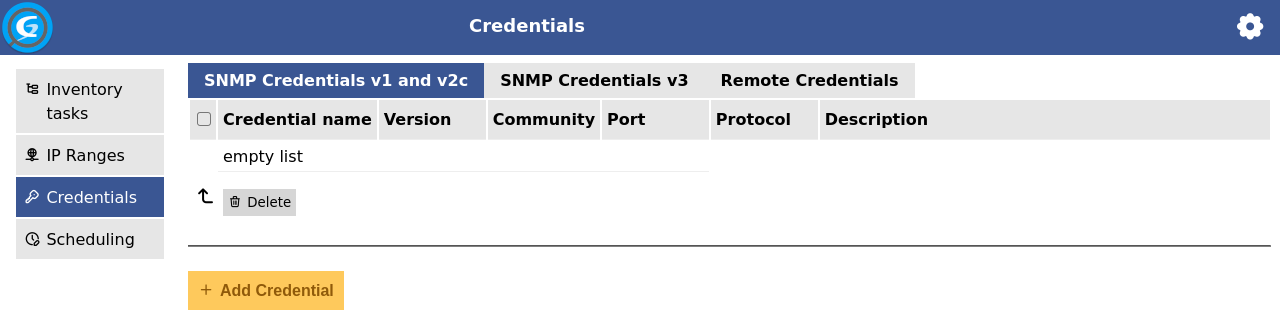
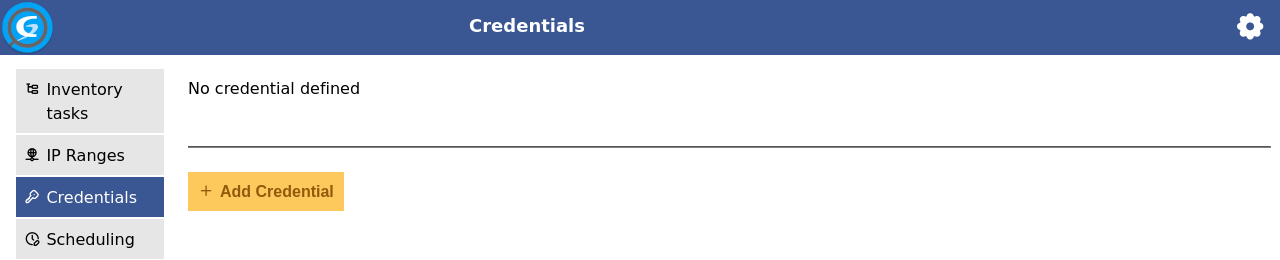
Update ToolBox documentation Add IP ranges & Scheduling configuration chapters Updated screenshots

diff --git a/source/plugins/toolbox-plugin.rst b/source/plugins/toolbox-plugin.rst
@@ -39,6 +39,7 @@ Here are the main features **ToolBox** provides:
 * manage mibsupport rules to tune the results for SNMP network devices
 
 .. note::
+
    **ToolBox** is not intended to replace a plugin like `GlpiInventory <https://github.com/glpi-project/glpi-inventory-plugin/>`_
    or `FusionInventory for GLPI <https://github.com/fusioninventory/fusioninventory-for-glpi>`_ plugins
    but can be helpful where none of these plugin can or should be used for any reason.
@@ -51,6 +52,7 @@ Run tasks results can be stored in the agent environment and you can browse them
 You can indeed select as job target any glpi-agent configured target (local or server) or the local glpi-agent installation folder.
 
 .. note::
+
    Since GLPI Agent 1.5, **ToolBox** also permits to manage :doc:`RemoteInventory task <../tasks/remote-inventory>` by defining and updating remotes.
    It can also be used to expire remotes and require a remoteinventory task run to handle any expired remotes right now.
    The interface is really basic: it doens't show the status of a remote and you'll still have to audit your agent log
@@ -74,6 +76,7 @@ By default, **this plugin is disabled**. So the first required step is to enable
 This way, the agent will start to accept toolbox requests on its current port and on ``/toolbox`` as base url, by default: `http://127.0.0.1:62354/toolbox`
 
 .. warning::
+
    By default, anybody can access this feature after it has been enabled. You should first set ``forbid_not_trusted = yes`` in your ``toolbox-plugin.local``
    to enable a "by trusted IP address" filtering, authorizing IP only enabled with the :ref:`httpd-trust` option.
 
@@ -97,6 +100,7 @@ You should enable the following pages:
 You can disable the **Results** page if your glpi-agent will directly submit inventories to a GLPI server and you won't use the local agent installation folder as target.
 
 .. note::
+
    After you have configured your interface, you can disable any further online configuration to avoid mistake by disabling the ``Configuration update authorized`` checkbox in the ``Toolbox plugin configuration`` section.
 
    If you need to tune again the configuration, you need to edit the ``toolbox.yaml`` file and change the ``updating_support`` line in the ``configuration`` section like:
@@ -113,18 +117,18 @@ Credentials
 
 .. cssclass:: no-bottom-margin
 
-Initially, the credentials page will show you an empty list of credentials:
+Initially, the credentials page will show you it found no credential:
 
 .. image:: /_static/images/credentials.png
 
-It essentially shows you can navigate between **SNMP Credentials v1 and v2c**, **SNMP Credentials v3** and **Remote Credentials** sections.
+So it essentially gives you access to the ``Add Credential`` button.
 
 Create a credential
 """""""""""""""""""
 
 .. cssclass:: no-bottom-margin
 
-You can quickly create a new credential after you have clicked on the ``Add Credential`` button:
+You can quickly create a new credential after you have clicked on the ``Add Credential`` button on the Credentials list page:
 
 .. image:: /_static/images/credentials-new.png
 
@@ -143,12 +147,12 @@ You have then a simple form permitting you to set a **Name**, choose a **Type** 
 #. Set the SNMP privacy protocol for SNMP v3
 #. Set the username for a remote credential (ssh, winrm or esx)
 #. Set the authentication password for a remote credential
-#. Set the remote authentication port if different than the defaults: 22 for ssh, 5985 for winrm
+#. Set the remote authentication port if different than the defaults: 22 for ssh, 5985 for winrm or 5986 for winrm with ssl mode enabled
 #. Enable one or more remote inventory mode for ssh or winrm
 
 You can also define a description for this credentials if this can help you to manage them. It is not used by GLPI Agent and it's up to you to use it.
 
-The **name** is free but **mandatory** and will be used as key name to associate it to IP ranges. So choose it to be meaningful for your credentials management.
+The **name** is free but **mandatory** and will be used as key name to associate it to IP ranges. So choose it carefully to be meaningful for your credentials management.
 
 .. note::
 
@@ -162,30 +166,36 @@ When you click on ``Create Credential``, the agent will check few field and will
 
 From the credentials list, you'll always have the option to edit or delete a credential.
 
+.. cssclass:: no-bottom-margin
+
+You also can move you mouse pointer other the config column to check few details. Passwords won't be shown:
+
+.. image:: /_static/images/credentials-config.png
+
 Update a credential
 """""""""""""""""""
 
 .. cssclass:: no-bottom-margin
 
-To update a credential, you simply can click on the ``Credential name`` in the **Credentials** list:
+To update a credential, you simply can click on the ``Credential name`` in the **Credentials** list page:
 
 .. image:: /_static/images/credentials-edit.png
 
 You obtain the same form as for `creation <#create-a-credential>`_. And from here, you can:
 
-#. Rename a credential
-#. Update any credential element
-#. Click on ``Update`` to save your change
-#. Click on ``Cancel`` or on ``Credentials`` in the navigation bar to return to the list.
-
-.. note::
-
-   If you click on ``Cancel`` after you have first click on ``Update``, this won't revert your saved changes.
+#. Rename the credential
+#. Update any credential setting
+#. Click on ``Update`` to save your changes
+#. Click on ``Go back to list`` or on ``Credentials`` in the navigation bar to return to the list.
 
 Delete a credential
 """""""""""""""""""
 
 For credential deletion, from the ``Credentials`` list, you have to click on the related checkbox, and click on the ``Delete`` button.
+
+.. warning::
+
+   Deletion will be **forbidden** in the case a credential is still in use. If you really need to remove a credential, first remove it from all associated IP ranges.
 
 .. _toolbox-ip-ranges:
 
@@ -194,13 +204,79 @@ IP Ranges
 
 .. cssclass:: no-bottom-margin
 
-Initially, the IP ranges page will show you an empty list of ranges:
+Initially, the IP ranges page will show you it found no IP range:
 
 .. image:: /_static/images/ip_ranges.png
 
-.. todo::
+So it essentially gives you access to the ``Add new IP range`` button.
 
-   Explain IP ranges management
+Create an IP range
+""""""""""""""""""
+
+.. cssclass:: no-bottom-margin
+
+You can quickly create a new IP range after you have clicked on the ``Add new IP range`` button on the IP range list page:
+
+.. image:: /_static/images/ip_ranges-new.png
+
+You have then a simple form permitting you to first set:
+
+#. the IP range **Name**
+#. the **IP range start**
+#. the **IP range end**
+
+These fields are all **mandatory** to define an IP range.
+
+The **name** format is free and will be used as a key name to associate it to an inventory job. So choose it carefully to be meaningful for you.
+
+You can also define a description for this IP range if this can help you to manage them. It is not used by GLPI Agent and it's up to you to use it.
+
+.. note::
+
+   If you only need to scan one IP, just use this ip as first and end ip of the range.
+
+   Also you should use an explicit name which will permit you to identify this ip range as targetting only one IP.
+
+You would like also to associate one or more credentials to this new IP range. In **ToolBox**, an IP range without at least one credential will be useless during netscan, so you should at least `have created a first credential <#create-a-credential>`_ before.
+
+When you click on ``Add IP range``, the agent will check few fields and will add it to the list unless something is wrong:
+
+.. image:: /_static/images/ip_ranges-added.png
+
+From the IP Ranges list, you'll always have the option to edit or delete an IP range. But you'll also have a mass action to add or remove one credential to your IP ranges. This is handy when you want to quickly update a lot of IP ranges.
+
+.. cssclass:: no-bottom-margin
+
+You also can move you mouse pointer other the credentials column to check related associated credential details. Passwords won't be shown:
+
+.. image:: /_static/images/ip_ranges-credential-details.png
+
+Update an IP range
+""""""""""""""""""
+
+.. cssclass:: no-bottom-margin
+
+To update an IP range, you simply can click on the ``IP range name`` in the **IP Ranges** list page:
+
+.. image:: /_static/images/ip_ranges-edit.png
+
+You obtain the same form as for `creation <#create-an-ip-range>`_. And from here, you can:
+
+#. Rename the IP range
+#. Change the start and the end of the IP range
+#. Unselect any associated credential
+#. Associate another credential, only if another credential is available
+#. Click on ``Update`` to save your changes
+#. Click on ``Go back to list`` or on ``IP Ranges`` in the navigation bar to return to the list.
+
+Delete an IP range
+""""""""""""""""""
+
+For IP range deletion, from the ``IP Ranges`` list, you have to click on the related checkbox, and click on the ``Delete`` button.
+
+.. warning::
+
+   Deletion will be **forbidden** in the case an IP range is still in use. If you really need to remove an IP range, first remove it from all associated netscan inventory tasks.
 
 .. _toolbox-scheduling:
 
@@ -209,13 +285,85 @@ Scheduling
 
 .. cssclass:: no-bottom-margin
 
-Initially, the scheduling page will show you an empty list of scheduling:
+Initially, the scheduling page will show you it found no scheduling:
 
 .. image:: /_static/images/scheduling.png
 
-.. todo::
+So it essentially gives you access to the ``Add new scheduling`` button.
 
-   Explain scheduling management
+Create a scheduling
+"""""""""""""""""""
+
+.. cssclass:: no-bottom-margin
+
+You can quickly create a new scheduling after you have clicked on the ``Add new scheduling`` button on the Scheduling list page:
+
+.. image:: /_static/images/scheduling-new.png
+
+You have then a simple form permitting you to first set:
+
+#. the scheduling **Name**
+#. the **Type**
+#. the `delay configuration <#create-a-delay-scheduling>`_ or `timeslot configuration <#create-a-timeslot-scheduling>`_
+
+The name remains **mandatory** to define a scheduling.
+
+The **name** format is free and will be used as a key name to associate it to an inventory job. So choose it carefully to be meaningful for you.
+
+You can also define a description for this scheduling if this can help you to manage them. It is not used by GLPI Agent and it's up to you to use it.
+
+.. cssclass:: no-bottom-margin
+
+When you click on ``Add``, the agent will check few fields and will add it to the list unless something is wrong:
+
+.. image:: /_static/images/scheduling-added.png
+
+From the Scheduling list, you'll always have the option to edit or delete a scheduling. The scheduling details are shown in the configuration column.
+
+Create a delay scheduling
+~~~~~~~~~~~~~~~~~~~~~~~~~
+
+.. cssclass:: no-bottom-margin
+
+When you `create a scheduling <#create-a-scheduling>`_, you have to choose the **delay** type.
+You can than configure the delay choosing a number for the delay and select a time unit from the given list:
+
+.. image:: /_static/images/scheduling-delay-configuration.png
+
+Create a timeslot scheduling
+~~~~~~~~~~~~~~~~~~~~~~~~~~~~
+
+.. cssclass:: no-bottom-margin
+
+When you `create a scheduling <#create-a-scheduling>`_, you have to choose the **timeslot** type.
+You can than configure the timeslot choosing a week day or **all**, a day time start hour and minute, a duration number and a time unit for the duration to choose between **minute** or **hour**:
+
+.. image:: /_static/images/scheduling-timeslot-configuration.png
+
+Update a scheduling
+"""""""""""""""""""
+
+.. cssclass:: no-bottom-margin
+
+To update a scheduling, you simply can click on the ``Scheduling name`` in the **Scheduling** list page:
+
+.. image:: /_static/images/scheduling-edit.png
+
+You obtain the same form as for `creation <#create-a-scheduling>`_. And from here, you can:
+
+#. Rename a scheduling
+#. Update the delay duration or the timeslot configuration
+#. Click on ``Update`` to save your changes
+#. Click on ``Go back to list`` or on ``Scheduling`` in the navigation bar to return to the list.
+
+Delete a scheduling
+"""""""""""""""""""
+
+For scheduling deletion, from the ``Scheduling`` list, you have to click on the related checkbox, and click on the ``Delete`` button.
+
+.. warning::
+
+   Deletion will be **forbidden** in the case a scheduling is still in use. If you really need to remove a scheduling, first remove it from all associated inventory tasks.
 
 .. _inventory-tasks:
 
@@ -224,7 +372,7 @@ Inventory tasks
 
 .. cssclass:: no-bottom-margin
 
-Initially, the inventory page will show you an empty list of inventory jobs:
+Initially, the inventory page will show you it found no inventory task:
 
 .. image:: /_static/images/inventory.png
 
